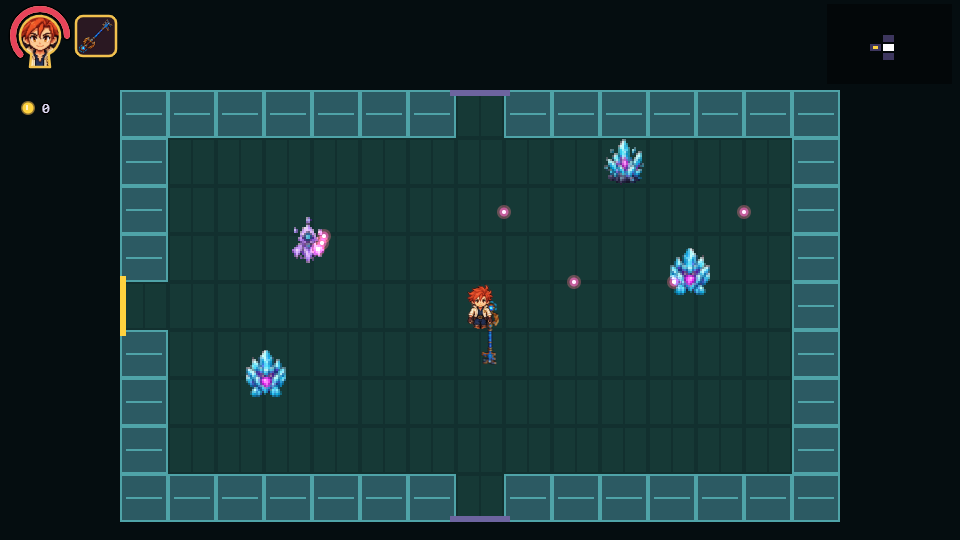
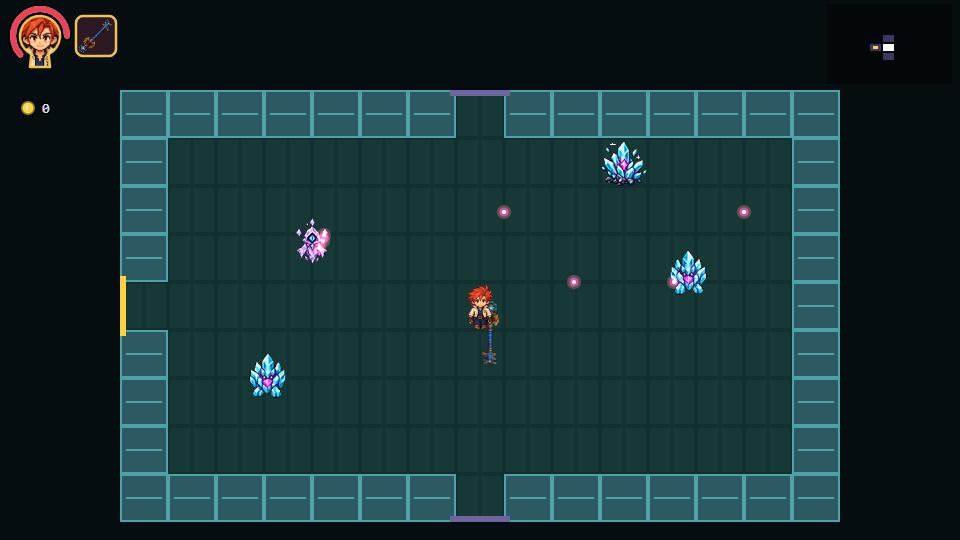
feat: update enemy frames and adjust fade opacity for sprites (#28)
* feat: update enemy frames and adjust fade opacity for sprites

* fix: correct off-by-one frame count check for enemy walk animations

---------

diff --git a/src/combat/enemies.ts b/src/combat/enemies.ts
@@ -215,7 +215,7 @@ export const LANTERN: EnemyDef = {
   id: 'lantern',
   name: 'enemy.lantern',
   texture: 'lantern',
-  frames: 1,
+  frames: 3,
   hp: 10,
   hpGrowth: 0.15,
   speed: 60,
@@ -278,7 +278,7 @@ export const CRYSTAL_SENTINEL: EnemyDef = {
   id: 'crystal-sentinel',
   name: 'enemy.crystal-sentinel',
   texture: 'crystal-sentinel',
-  frames: 1,
+  frames: 3,
   hp: 20,
   hpGrowth: 0.15,
   speed: 80,
@@ -295,7 +295,7 @@ export const CRYSTAL_SHARD: EnemyDef = {
   id: 'crystal-shard',
   name: 'enemy.crystal-shard',
   texture: 'crystal-shard',
-  frames: 1,
+  frames: 3,
   hp: 4,
   hpGrowth: 0.15,
   speed: 165,
@@ -312,7 +312,7 @@ export const CRYSTAL_SEER: EnemyDef = {
   id: 'crystal-seer',
   name: 'enemy.crystal-seer',
   texture: 'crystal-seer',
-  frames: 1,
+  frames: 3,
   hp: 10,
   hpGrowth: 0.15,
   speed: 75,
@@ -341,7 +341,7 @@ export const CRYSTAL_SPIKE: EnemyDef = {
   id: 'crystal-spike',
   name: 'enemy.crystal-spike',
   texture: 'crystal-spike',
-  frames: 1,
+  frames: 3,
   hp: 16,
   hpGrowth: 0.15,
   speed: 0,

diff --git a/src/wiki/sprites.ts b/src/wiki/sprites.ts
@@ -6,7 +6,8 @@ import { type Item, baseId } from '../combat/stats';
 /** Art is drawn at whole multiples so the pixels stay square. */
 const ZOOM = 2;
 
-const FADE_OPACITY = { shown: 1, fading: 0.55, hidden: 0.12, appearing: 0.55 } as const;
+/** Never fully gone, unlike in the game: the reader still has to find it on the page. */
+const FADE_OPACITY = { shown: 1, fading: 0.65, hidden: 0.35, appearing: 0.65 } as const;
 
 /** Prefix a public asset path with Vite’s deployment base so subpath hosting works. */
 const asset = (path: string) => `${import.meta.env.BASE_URL}${path}`;

diff --git a/src/scenes/BootScene.ts b/src/scenes/BootScene.ts
@@ -269,7 +269,7 @@ export class BootScene extends Phaser.Scene {
       const key = walkAnimKey(def.texture);
       if (frames.length === 0 || !this.textures.exists(def.texture) || this.anims.exists(key)) continue;
       // A missing strip loads as a single frame: no walk to play.
-      if (this.textures.get(def.texture).frameTotal - 1 < def.frames!) continue;
+      if (this.textures.get(def.texture).frameTotal < def.frames!) continue;
       this.anims.create({
         key,
         frames: frames.map((frame) => ({ key: def.texture, frame })),
